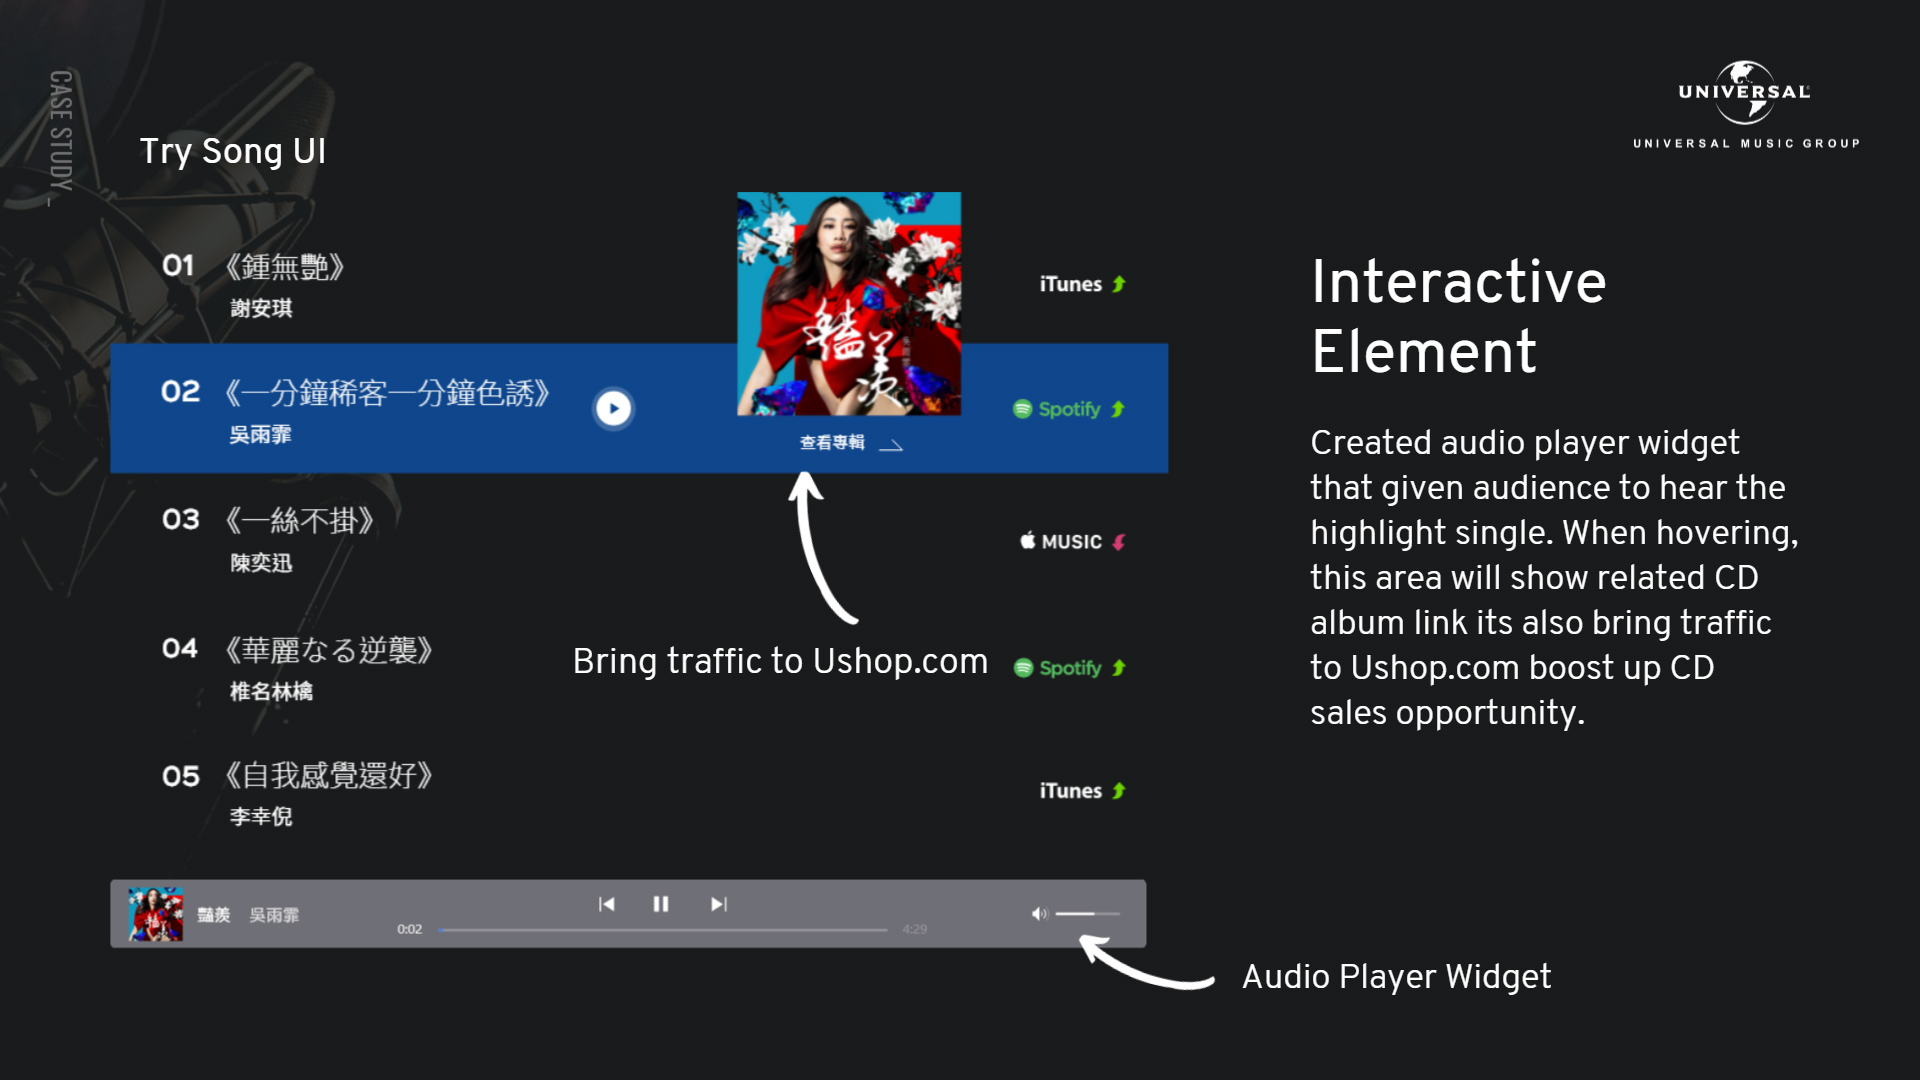
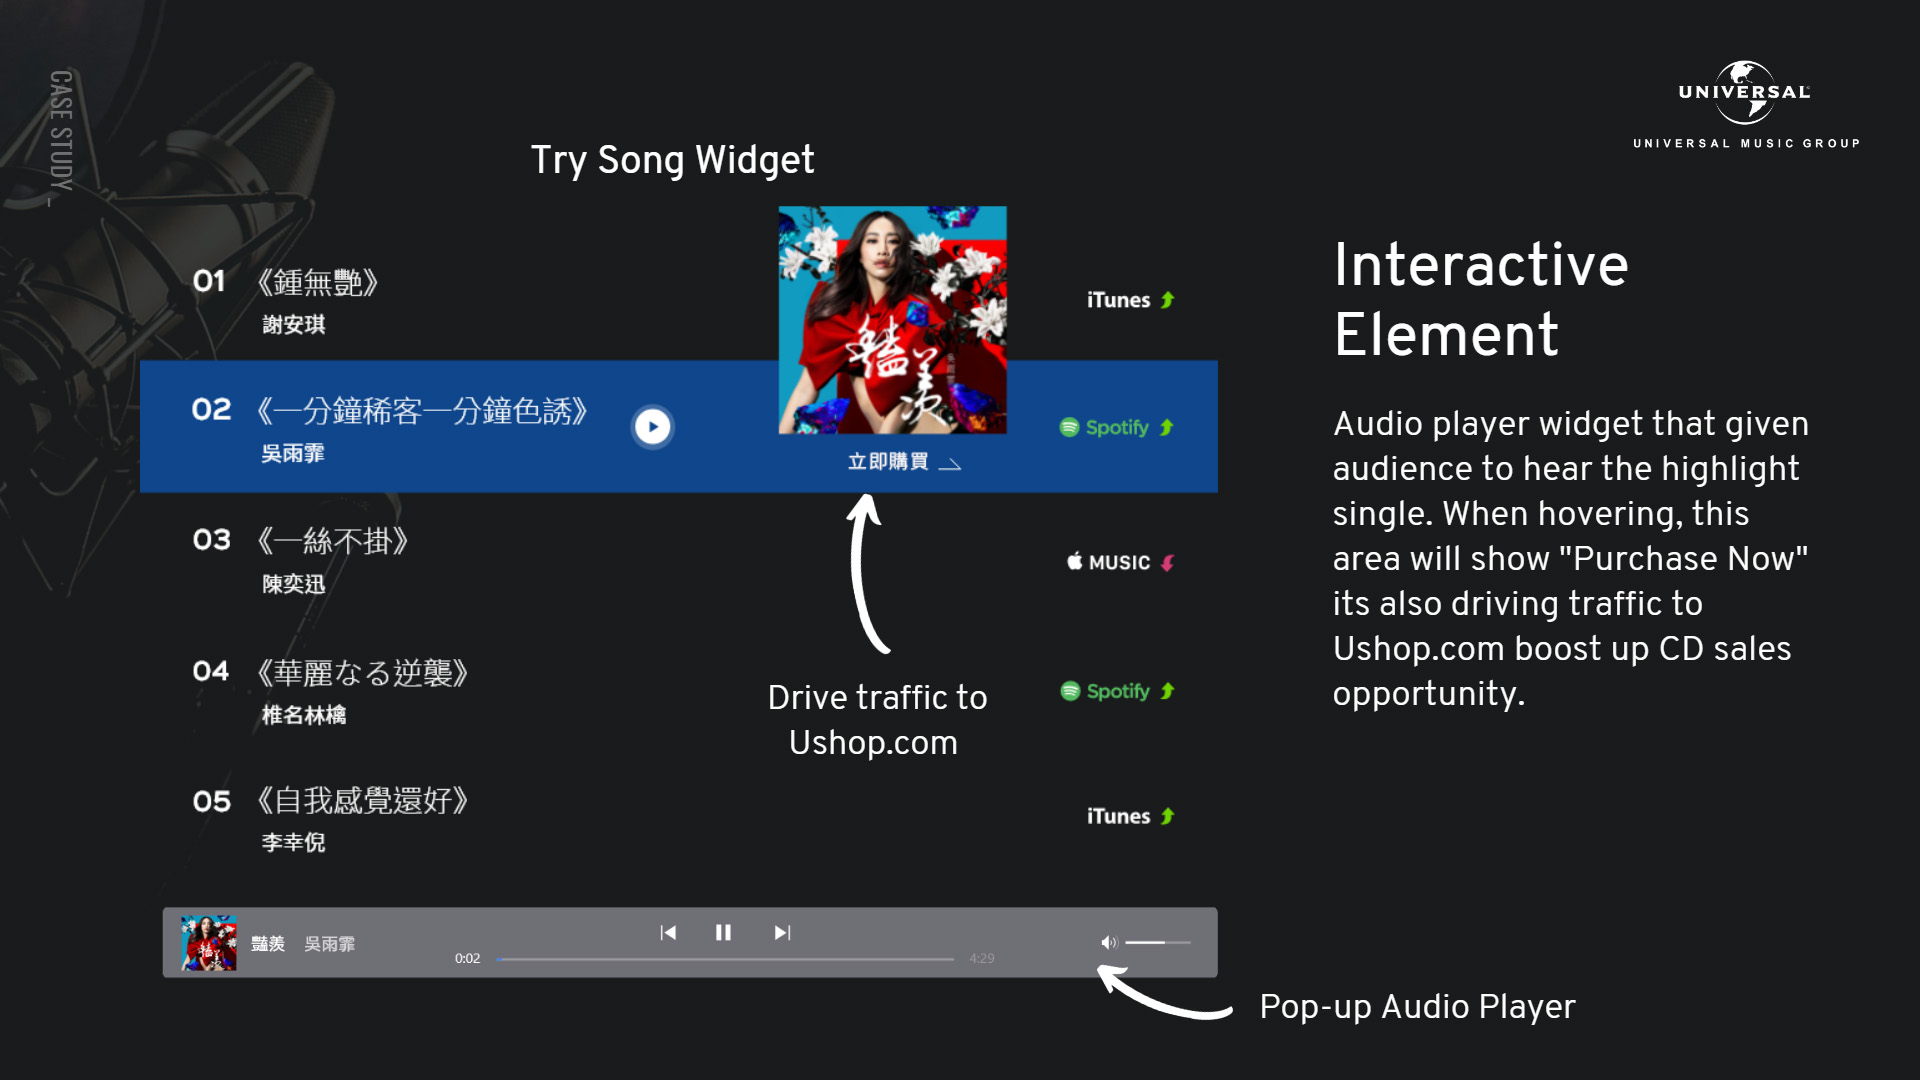
150823

diff --git a/umg_case_study.html b/umg_case_study.html
@@ -518,7 +518,7 @@ Framework Design 解說:</p>
 
         <p class=" h1 spacing-title">Landing 解說:</p>
 
-        <p class=" h1 spacing-title">Landing page分4個內容部分, 內容層次清晰左, 相比舊網站, 唔會有太多文字內容壓迫, Users容易繼續瀏覽。</p>
+        <p class=" h1 spacing-title">Landing page分4個內容部分, 內容層次清晰左, 相比舊網站, 唔會有太多文字內容壓迫, 容易比Users繼續去瀏覽。</p>
 
         <p class=" body spacing-medium">(下一頁 Slide.....)</p>
 
@@ -528,7 +528,7 @@ Framework Design 解說:</p>
 
         <p class=" h1 spacing-title">Targeted content present boosting up audience motivate 解說:</p>
 
-        <p class=" body spacing-small">Landing page第2部分, 係唱片公司核心內容, 根據之前users Finding, 主要係歌手social media event內容, 同CD 另外重新設計內容表達,  有唔同Layout, 去配合 唔同類型內容, 連接目標Users。 <!--歌手Social feed, 同埋歌手Event 等等。 連接到 需要Social media content觀眾。 帶動番Users繼續瀏覽, 增加多D traffic。--></p>
+        <p class=" body spacing-small">Landing page第2部分, 係唱片公司核心內容, 根據之前Finding做調整, 主要係歌手Social media event內容, 同CD。 另外有唔同Layout, 去配合 唔同類型內容, 連接目標Users。 <!--歌手Social feed, 同埋歌手Event 等等。 連接到 需要Social media content觀眾。 帶動番Users繼續瀏覽, 增加多D traffic。--></p>
 
         <p class=" body spacing-medium">(下一頁 Slide.....)</p>
 
@@ -538,7 +538,7 @@ Framework Design 解說:</p>
 
         <p class=" body spacing-title">Clearly Website structure 解說:</p>
 
-        <p class=" body spacing-small">網站結構簡化左, 減少左Users瀏覽混亂, 另外，Menu 係Full screen, 提供左1個清晰嘅 網站概覽。</p>
+        <p class=" body spacing-small">網站結構簡化左, 減少左Users瀏覽混亂, 另外，Menu 係Full screen design, 有1個清晰嘅 網站概覽。</p>
 
         <p class=" body spacing-medium">(下一頁 Slide.....)</p>
 
@@ -548,7 +548,7 @@ Framework Design 解說:</p>
 
         <p class=" h1 spacing-title">Obvious CTA redirect traffic to Ushop.com 解說:</p>
 
-        <p class=" body spacing-small">另外, 第2個Project goal要帶多D Traffic 去Ushop.com。 係專輯詳情, 有個大圓形 CTA button, 去吸引Users行動, 帶動Users買CD機會。<!--...........(本身係正常round corner button, 似Lable....不過Client......)--></p>
+        <p class=" body spacing-small">另外, 其中1個Project goal, 要帶多D Traffic 去Ushop.com。 係專輯詳情, 有個清晰圓形 CTA button, 去吸引Users行動, 帶動Users買CD機會。<!--...........(本身係正常round corner button, 似Lable....不過Client......)--></p>
 
 
         <p class=" body spacing-small">******總結 : 重新設計 Landing 個內容結構, 同埋層次更加清晰, 令User 容易D發現內容, 然後繼續Users嘅旅程, 降低Users跳出, 呢度, 解決番Content結構唔好嘅問題。</p>
@@ -563,7 +563,7 @@ Framework Design 解說:</p>
 
         <p class=" h1 spacing-small">「 Enhanced search feature 」 解說:</p>
 
-        <p class=" body spacing-sub-title">之後下面個 Demo, 强化左搜索功能</p>
+        <p class=" body spacing-sub-title">之後呢個 Demo, 强化左搜索功能 -> Play......OK,可以去下一頁???</p>
 
         <p class=" body spacing-medium">Search page 係1個 Full screen, Search時候, 唔需要跳去1個Result page, 入左 Key word後, 有查詢建議, 同埋有thumbnail, 提高番搜索易用性....... demo:同埋Artist Bio page button。 Demo Click 王菀之 page</p>
 
@@ -578,7 +578,7 @@ Framework Design 解說:</p>
     <div class="copy-width spacing-large">
         <p class=" h1 spacing-small">「 Optimizing the brand online recognizable 」 PT_page_29</p>
 
-        <p class=" h1 spacing-title">呢個Demo展示左 網站提升左識別度, 營做番 有音樂品牌嘅感覺, 另外, 設計左1D 互動元素, 可以睇下Demo先。</p>
+        <p class=" h1 spacing-title">呢個Demo展示左 網站提升左識別度, 營做番 有音樂品牌嘅感覺, 另外, 設計左1D 互動元素, 可以睇下Demo先 -> Play......OK,可以去下一頁??? </p>
 
         <p class=" body spacing-medium">(下一頁 Slide.....)</p>
 
@@ -598,7 +598,7 @@ Framework Design 解說:</p>
 
         <p class=" h1 spacing-title">Interactive Element</p>
 
-        <p class=" body spacing-medium">亦都加强左互動方面, 例如試聽UI, 有查看詳情 Button。 亦都係帶更多Traffic  去Ushop.com (環球唱片嘅CD shop)。 另外, 有個試聽Pop-up Player。</p>
+        <p class=" body spacing-medium">亦都加强左互動方面, 例如試聽UI, 有立即購買 Button。 亦都係帶更多Traffic  去Ushop.com (環球唱片嘅CD shop)。 <!--另外, 有個試聽Pop-up Player。--></p>
 
         <!--<p class=" body spacing-medium">有個下拉Menu, 可以交互導航, 跳去唔同內容嘅地方。 新嘅 UMG PRESS page, 係綜合左 , 有: News, 歌手Soical feed, 同埋歌手 Event,</p>-->
 
@@ -614,7 +614,7 @@ Framework Design 解說:</p>
     <div class="copy-width spacing-large">
         <p class=" h1 spacing-small">「 Engaging with social content more deeply 」 PT_page_32</p>
 
-        <p class=" h1 spacing-small">之後, 第3個Demo係,  加强番Social media方面嘅content, 同埋功能。 拉近番同Users距離 <!--呢度展示左 Users可以追踪 歌手嘅Event, 同步到自己嘅Google Calander, 同埋加入左Social feed wall功能, 有歌手Post, -->可以睇下Demo先.........</p>
+        <p class=" h1 spacing-small">之後, 第3個Demo係,  加强番Social media方面嘅content, 同埋功能。 拉近番同Users距離, 可以睇下Demo先, -> Play  <!--呢度展示左 Users可以追踪 歌手嘅Event, 同步到自己嘅Google Calander, 同埋加入左Social feed wall功能, 有歌手Post, --></p>
 
 
         <p class=" body spacing-title">Demo 解說:</p>
@@ -624,7 +624,7 @@ Framework Design 解說:</p>
         Click "Join" button, 有個Dialogue, 可以Syn去 自己嘅 Google Calendar, 可以比Users 追踪有興趣Event。</p>
 
 
-        <p class=" body spacing-medium">跟住, 呢度係歌手社交 page, 有Social wall功能, 睇到歌手嘅Post, 呢度係即時性, 會不停更新, Keep住有新Content, 令Users 停留長D時間, 又唔需要係 Backend 發布新內容。</p>
+        <p class=" body spacing-medium">跟住, 呢度係歌手社交 page, 有Social wall功能, 睇到歌手嘅Post, 呢度係即時性, 會不停更新, Keep住有新Content, <!--令Users 停留長D時間,--> 又唔需要係 Backend 發布新內容。</p>
 
 
         <p class=" body spacing-medium">(下一頁 Slide.....)</p>
@@ -650,7 +650,7 @@ Framework Design 解說:</p>
 
 
     <div class="copy-width spacing-large">
-        <p class=" h1 spacing-copy">其他Page嘅 Mockup, 可睇睇Website果邊。</p>
+        <p class=" h1 spacing-copy">其他Page嘅 Mockup, 可睇睇Website果邊, 會詳細D。</p>
     </div>
 
 

diff --git a/project/umg_hk.html b/project/umg_hk.html
@@ -500,7 +500,7 @@
 
 
       <p class="observable h1 spacing-title">Interactive content</p>
-      <p class="observable body spacing-large">Audio player widget that given audience to hear the highlight single. When hovering, this area will show related CD album link its also bring traffic to Ushop.com boost up CD sales opportunity. <!--Beside, As release center "UMG PRESS" is consist of official news, Artist's social feed and Artist's event where is interchange navigating between the child page when user pulling down by click-through.--> <span class="material-icons m-icons-position" style="font-size:12pt;">open_in_new</span> <a class="image-popup-fit-width underlined" style="opacity:0.8" title="Click on image to enlarge/reduce it"  href="../images/projects/umg_hk/ui_interact.jpg">Detail</a></p>
+      <p class="observable body spacing-large">Audio player widget that given audience to hear the highlight single. When hovering, this area will show "Purchase Now" its also driving traffic to Ushop.com boost up CD sales opportunity. <!--Beside, As release center "UMG PRESS" is consist of official news, Artist's social feed and Artist's event where is interchange navigating between the child page when user pulling down by click-through.--> <span class="material-icons m-icons-position" style="font-size:12pt;">open_in_new</span> <a class="image-popup-fit-width underlined" style="opacity:0.8" title="Click on image to enlarge/reduce it"  href="../images/projects/umg_hk/ui_interact.jpg">Detail</a></p>
     </div>
 
 
